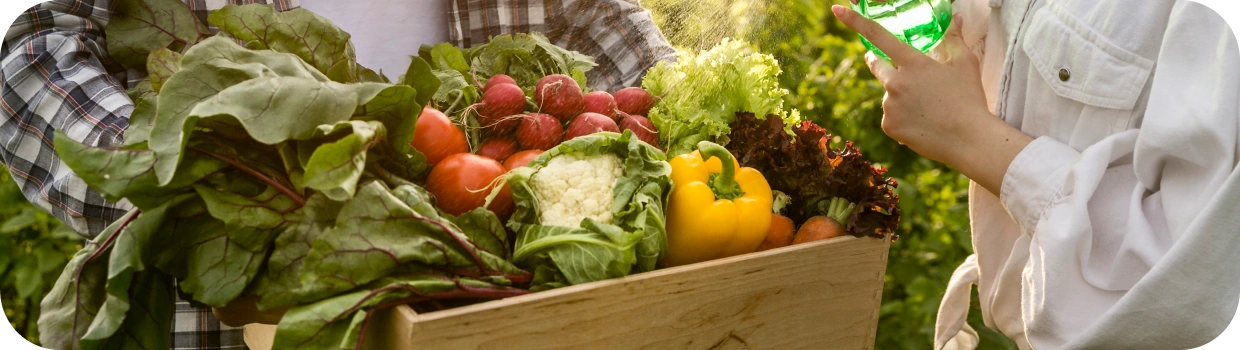
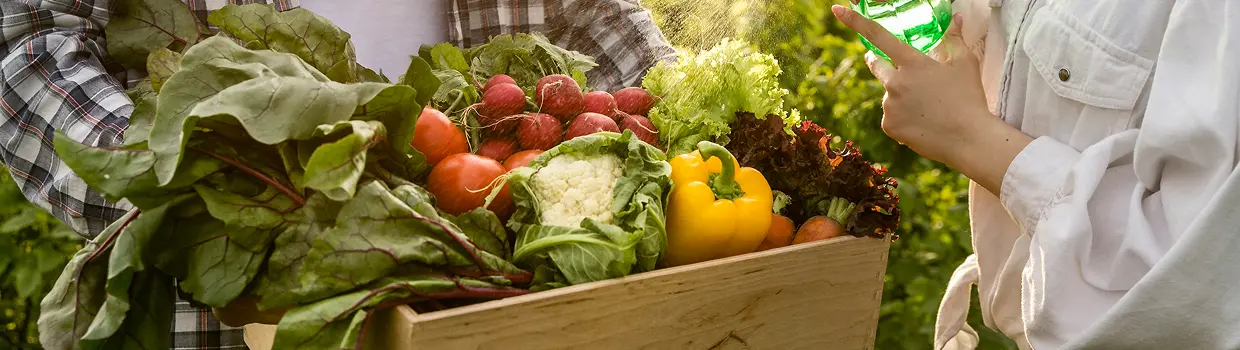
makes hero img

diff --git a/src/sass/sections/_hero.scss b/src/sass/sections/_hero.scss
@@ -53,11 +53,17 @@
   &__image {
     margin-top: 32px;
     border-radius: 40px;
-    margin-left: 50px;
+    width: 100%;
+    height: 480px;
+    object-fit: cover;
 
     @media screen and (min-width: 768px) {
       margin-top: 40px;
-      margin-left: 0px;
+      height: 580px;
+    }
+
+    @media screen and (min-width: 1304px) {
+      height: 350px;
     }
   }
 
